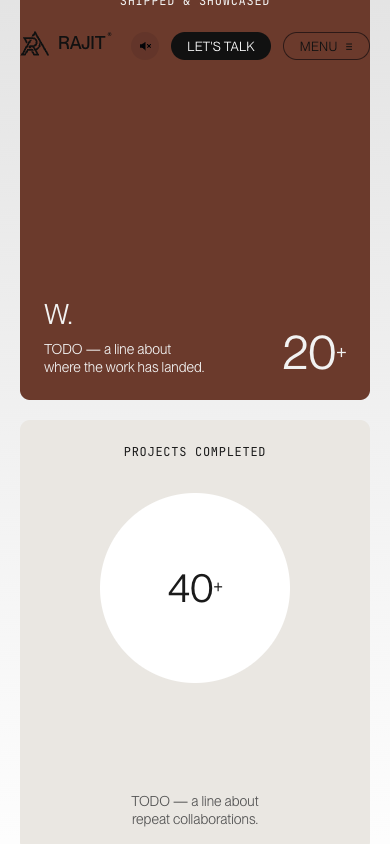
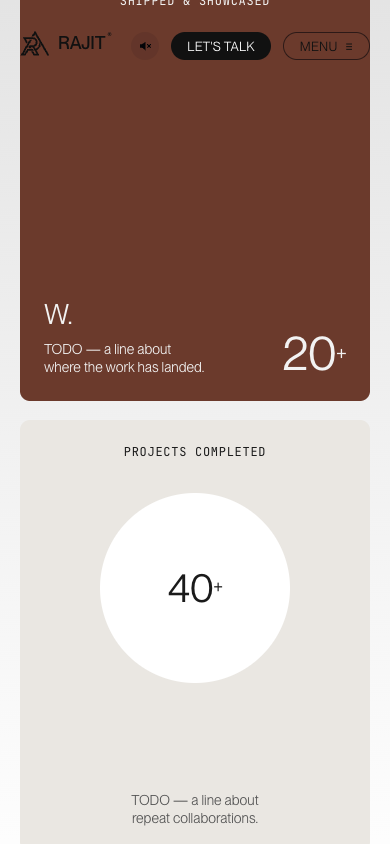
a08: rebuild the Key facts entrance as the 3D rotation it actually is
The cards were rising in 2D (opacity/y:40/scale:.97). The reference rotates
them up in 3D, hinged on their top edge. ANIMATIONS.md had recorded the
clue -- "frame 081 shows a single small skewed placeholder" -- and then
inferred the 2D rise anyway, marked HIGH-CONFIDENCE INFERENCE. Measuring
the silhouette disproves it.

Right-hand card, measured off the frames (CSS px, final 330 x 407):

  frame 082   height 241 (59%)   top 323   bottom 260   taper -19.7%
  frame 083   height 315 (77%)   top 327   bottom 287   taper -12.3%

Within frame 082 the width narrows 323 -> 298 -> 259.5 over equal height
steps. That acceleration is a perspective divide; an affine skew holds
width constant and a linear scale narrows evenly. The top edge stays at its
final 330 throughout, so the hinge is the top edge.

Perspective was solved, not picked: at 59% height the card is rotated
~53.8deg, putting its bottom edge ~328px back, and -19.7% taper then gives
~1335px. It lives on the grid rather than per-card, because the right
card's right edge drifts 97px left against its own left edge's 33px -- a
shared vanishing point pulling outer cards inward. I had first attributed
that asymmetry to a rotateY; per-card perspective plus rotateY reproduced
the taper but not the convergence, and overshot at -26.5% against -19.7%.

Stagger 0.08 -> 0.145, also measured: frame 082 catches the cards at
~95%/~77%/59%, a 36-point spread. 0.08 measured 16 points, 0.17 overshot
to 59.
[…]

Changed region(s): [[0.3385, 0.9242, 0.6462, 0.9858], [0.7385, 0.4005, 0.8615, 0.4621]]

diff --git a/src/components/home/KeyFacts.tsx b/src/components/home/KeyFacts.tsx
@@ -10,7 +10,24 @@ import { stats, tools, toolsLabel } from "@/data/stats";
 
 /**
  * PAGES §04 / A08 — three 330 × 407 cards in a centred 1032px container with
- * 20px gaps, rising in with a left→right stagger. Geometry from frame 088.
+ * 20px gaps. Geometry from frame 088.
+ *
+ * The cards enter under a real 3D perspective rotation, hinged on their top
+ * edge, not the 2D rise that was here before. ANIMATIONS.md noted "a single
+ * small skewed placeholder" in frame 081 and then inferred
+ * `opacity/y:40/scale:.97` anyway; measuring the silhouette disproves it.
+ *
+ * Right-hand card, measured off the frames (CSS px, final size 330 × 407):
+ *
+ *   frame 082   height 241 (59%)   top 323   bottom 260   taper −19.7%
+ *   frame 083   height 315 (77%)   top 327   bottom 287   taper −12.3%
+ *   settled     height 407         top 330   bottom 330   taper 0
+ *
+ * Two things follow. Within frame 082 the width narrows 323 → 298 → 259.5 over
+ * equal height steps — accelerating, which only a perspective divide does; an
+ * affine skew holds width constant and a linear scale narrows evenly. And the
+ * top edge sits at its final 330 throughout while the bottom sweeps in, so the
+ * hinge is the top edge and the bottom is the far edge.
  */
 export function KeyFacts() {
   const root = useRef<HTMLDivElement>(null);
@@ -21,13 +38,31 @@ export function KeyFacts() {
     if (!el || reduced) return;
     gsap.registerPlugin(ScrollTrigger);
     const ctx = gsap.context(() => {
-      gsap.from(".kf-card", {
+      const cards = gsap.utils.toArray<HTMLElement>(".kf-card");
+      gsap.from(cards, {
+        // Hinge from the top edge — that's what pins the top width at 330.
+        transformOrigin: "50% 0%",
+        // No transformPerspective here: perspective belongs on the grid (see
+        // the container's style) so all three cards share one vanishing point
+        // at its centre. Per-card perspective centres the vanishing point on
+        // each card and tapers them symmetrically; a shared one makes the
+        // outer cards converge inward, which is what the frames show — the
+        // right card's right edge drifts 97px left against its own left edge's
+        // 33px. That asymmetry is the shared vanishing point, not a rotateY.
+        rotateX: -70,
         opacity: 0,
-        y: 40,
-        scale: 0.97,
-        duration: 1,
+        duration: 1.1,
         ease: "expo.out",
-        stagger: 0.08,
+        // 0.17, not the 0.08 originally inferred. In frame 082 the three
+        // cards sit at ~95% / ~77% / 59% of final height — a 36-point spread.
+        // On this expo.out curve that is ~0.30 of the duration between the
+        // first card and the last, solved to 0.145 per step by
+        // measurement: 0.08 gave a 16-point spread, 0.17 gave 59.
+        stagger: 0.145,
+        // Softens edges mid-rotation in some browsers; dropped on completion
+        // so it doesn't pin a layer for the life of the page.
+        onStart: () => cards.forEach((c) => (c.style.willChange = "transform")),
+        onComplete: () => cards.forEach((c) => (c.style.willChange = "")),
         scrollTrigger: { trigger: el, start: "top 75%", once: true },
       });
     }, el);
@@ -47,7 +82,15 @@ export function KeyFacts() {
           </p>
         </div>
 
-        <div className="mx-auto mt-[92px] grid max-w-[var(--container-mid)] gap-5 sm:grid-cols-2 lg:grid-cols-3">
+        {/*
+          Solved from the frames rather than picked: at 59% of final height the
+          card is rotated ~53.8°, putting its bottom edge ~328px back, and the
+          measured −19.7% taper then implies perspective ≈ 1335px.
+        */}
+        <div
+          className="mx-auto mt-[92px] grid max-w-[var(--container-mid)] gap-5 sm:grid-cols-2 lg:grid-cols-3"
+          style={{ perspective: "1335px" }}
+        >
           {stats.map((s) => (
             <article
               key={s.label}

diff --git a/analysis/ANIMATIONS.md b/analysis/ANIMATIONS.md
@@ -85,10 +85,29 @@ during fast-scroll frames. `LOW-CONFIDENCE INFERENCE`
 ## A08 — Key facts entrance
 **Element** 3 stat cards + partner row.
 **Trigger** section enters viewport.
-**Initial** `opacity: 0; y: +40px; scale: .97` (frame 081 shows a single small skewed placeholder,
-frame 082 shows the cards partially formed).
+**Initial** `opacity: 0; rotateX: −70°` about `transform-origin: 50% 0%`, under a **shared
+perspective of ~1335px on the card grid** (not per-card). `OBSERVED` — corrected from the earlier
+`opacity/y:+40/scale:.97` inference, which was wrong. The "small skewed placeholder" in frame 081 is
+the effect itself, not a placeholder.
+
+Measured silhouette of the right-hand card (CSS px; final size 330 × 407):
+
+| frame | height | top edge | bottom edge | taper |
+|---|---|---|---|---|
+| 082 | 241 (59%) | 323 | 260 | −19.7% |
+| 083 | 315 (77%) | 327 | 287 | −12.3% |
+| settled | 407 | 330 | 330 | 0 |
+
+Three things this pins down. Within frame 082 the width narrows 323 → 298 → 259.5 over equal height
+steps — *accelerating*, which only a perspective divide produces; an affine skew holds width constant
+and a linear scale narrows evenly. The top edge sits at its final 330 throughout, so the hinge is the
+top edge. And the right card's right edge drifts 97px left against its own left edge's 33px — that
+asymmetry is a **shared** vanishing point at the grid's centre pulling the outer cards inward, not a
+`rotateY`; per-card perspective would taper each card symmetrically.
+
 **Final** neutral.
-**Duration** ~1 s; **stagger** ~0.08 s left→right. `HIGH-CONFIDENCE INFERENCE`
+**Duration** ~1.1 s; **stagger** ~0.145 s left→right — frame 082 catches the three cards at ~95% /
+~77% / 59% of final height, a 36-point spread that 0.08 s cannot produce (it measures 16).
 **Extra** the section title `Key facts` itself resolves out of a per-glyph blur (frame 079:
 `K   f cts`). Same technique as A02.
 

diff --git a/analysis/COMPONENTS.md b/analysis/COMPONENTS.md
@@ -115,7 +115,10 @@ scroll-velocity-driven skew/speed boost. `HIGH-CONFIDENCE INFERENCE`
   `1.5K⁺` at 40 px inside it, 14 px 2-line copy bottom-centre.
 * *dark card* — `--card-dark`, `label-mono` top-centre, inset 266 × 220 image, copy bottom-left,
   numeral `20⁺` bottom-right.
-**Animation** cards rise + fade in with a ~0.08 s stagger as the section enters (frames 081–085).
+**Animation** cards rotate up from `rotateX: −70°`, hinged on their top edge under a perspective
+shared across the grid, fading in with a ~0.145 s left→right stagger as the section enters
+(frames 081–085). See `ANIMATIONS.md` §A08 for the measurements — this is a 3D rotation, not the
+rise/scale-fade previously recorded here.
 
 ## 14. PartnerRow
 `label-mono` centred (`OUR BUSINESS PARTNERS`), then 5 wordmarks in a centred row with 1 px vertical
